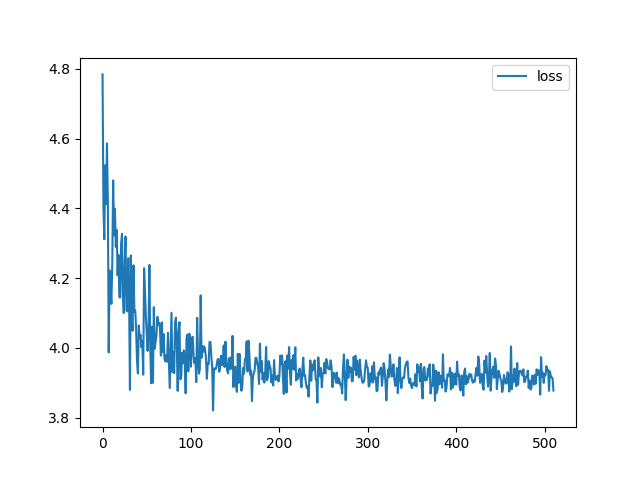
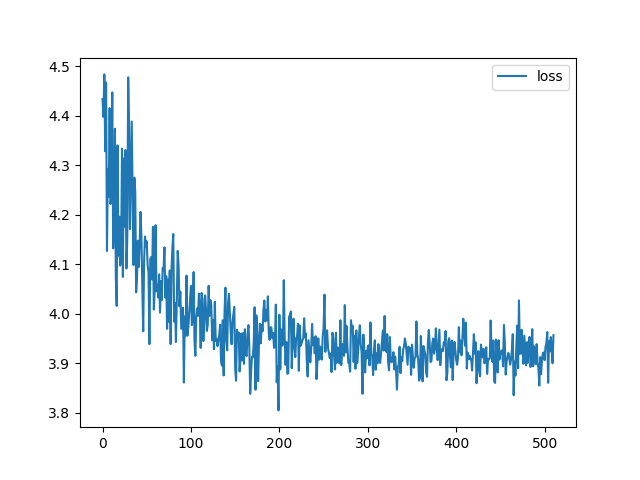
le merge kr :P

diff --git a/Sahil/conv.py b/Sahil/conv.py
@@ -5,6 +5,35 @@ from keras.optimizers import SGD, RMSprop, Adam #change to adam
 from keras.utils import to_categorical
 from helperFunctions import *
 
+
+class PlotLosses(keras.callbacks.Callback):	
+	def on_train_begin(self, logs={}):
+		self.i = 0
+		self.x = []
+		self.losses = []
+		self.val_losses = []
+		
+		self.fig = plt.figure()
+		
+		self.logs = []
+
+	def on_batch_end(self, epoch, logs={}):
+		
+		self.logs.append(logs)
+		self.x.append(self.i)
+		self.losses.append(logs.get('loss'))
+		self.i += 1
+		
+		#clear_output(wait=True)
+	
+	def on_epoch_end(self, epoch, logs={}):
+		plt.plot(self.x, self.losses, label="loss")
+		plt.legend()
+		plt.show()
+		plt.savefig('current_loss.png')
+		plt.close()
+		TrainAcc()	
+
 learningRate = 1e-3
 batchSize = 64
 
@@ -41,7 +70,8 @@ print(model.summary())
 #print(checkAcc(model,trainingData,labels))
 
 rmsprop = RMSprop(lr=learningRate, rho=0.9, epsilon=None, decay=0.0)
-model.compile(loss='categorical_crossentropy', optimizer=rmsprop)
+adam = Adam(lr=0.001, beta_1=0.9, beta_2=0.999, epsilon=None, decay=0.0, amsgrad=False)
+model.compile(loss='categorical_crossentropy', optimizer=adam)
 
 plot_losses = PlotLosses()
 
@@ -63,3 +93,4 @@ def ValAcc():
 	labels = getValLabels()
 	labels = to_categorical(labels,num_classes=49)
 	print(checkAcc(model,trainingData,labels))	
+

diff --git a/Sahil/helperFunctions.py b/Sahil/helperFunctions.py
@@ -31,30 +31,3 @@ def checkAcc(model, data, labels):
 	pred = model.predict(data)
 	return np.mean(np.argmax(pred,axis=1) == np.argmax(labels,axis=1))
 
-class PlotLosses(keras.callbacks.Callback):
-	def on_train_begin(self, logs={}):
-		self.i = 0
-		self.x = []
-		self.losses = []
-		self.val_losses = []
-		
-		self.fig = plt.figure()
-		
-		self.logs = []
-
-	def on_batch_end(self, epoch, logs={}):
-		
-		self.logs.append(logs)
-		self.x.append(self.i)
-		self.losses.append(logs.get('loss'))
-		self.i += 1
-		
-		#clear_output(wait=True)
-	
-	def on_epoch_end(self, epoch, logs={}):
-		plt.plot(self.x, self.losses, label="loss")
-		plt.legend()
-		plt.show()
-		plt.savefig('current_loss.png')
-		plt.close()
-		
